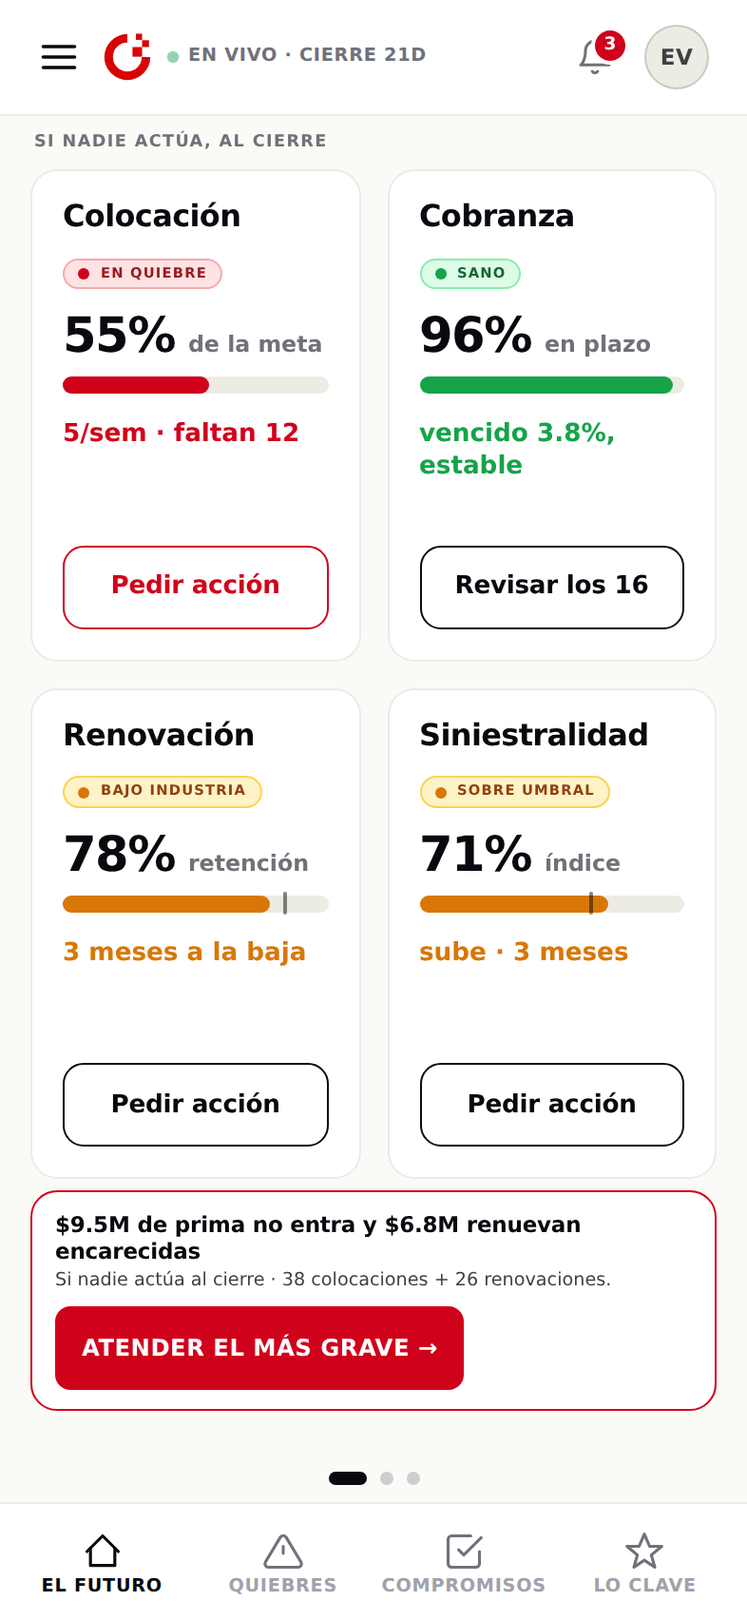
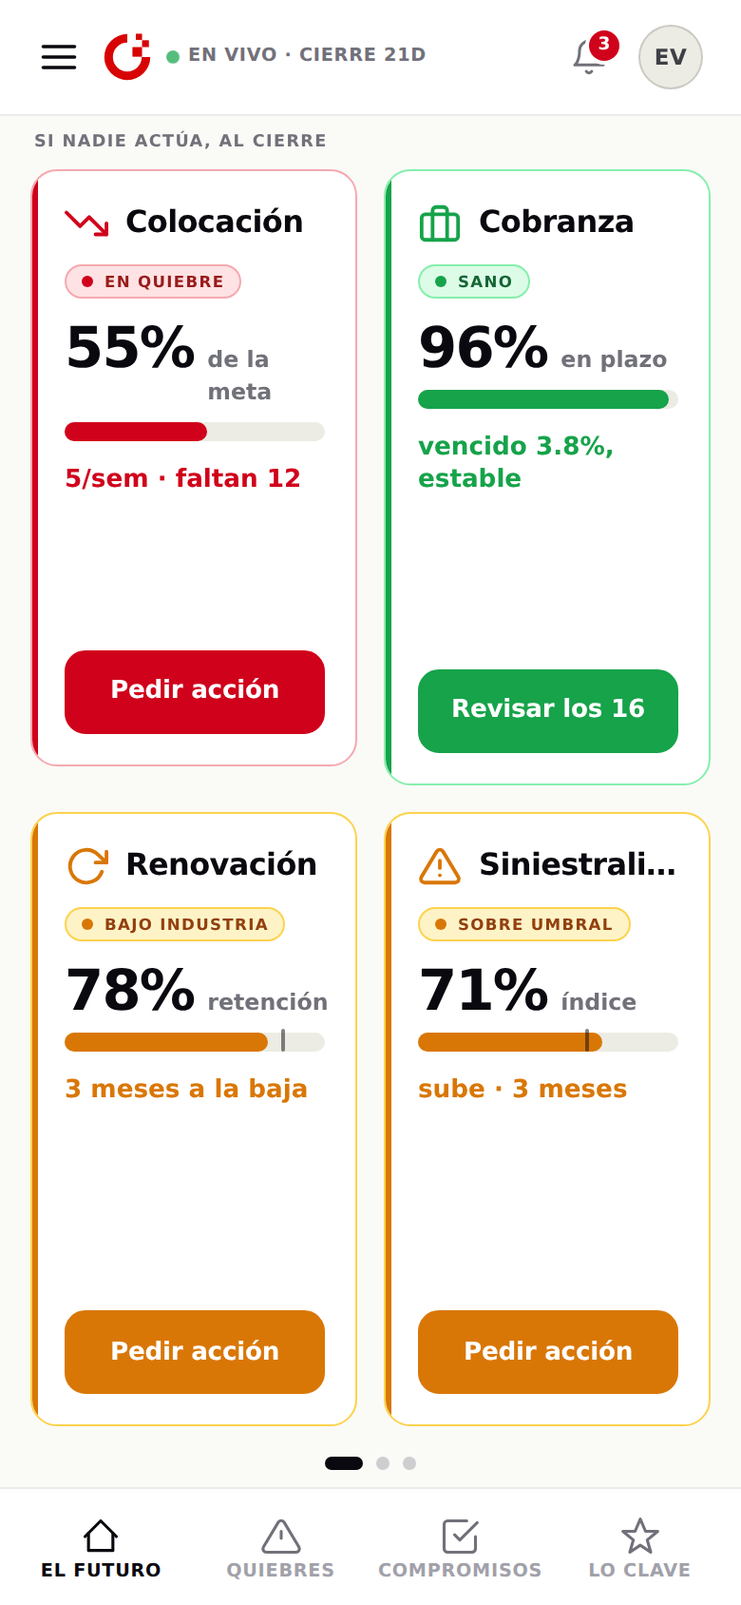
Desarrollo · Ontikos móvil: semáforo de cumplimiento en El Futuro + marca como inicio
El Futuro, página 1, recompuesto sobre «Mi Semana» recuperando su semáforo:

- Se retira la barra de decisión del pie: cada tile ya remata en su propio
  acto, era redundante y su alto obligaba a desplazar y rompía la grilla. Con
  ella fuera, la 2×2 llena el alto y la entrada CABE SIN SCROLL en toda la
  gama medida, incluido el peor caso (iPhone SE con barras · 375×553).
- Color = estado de cumplimiento, en tres canales (nunca sólo matiz): filo
  lateral de 3px, ícono del frente y botón RELLENO en el estado (rojo quiebre,
  ámbar advertencia, verde sano). Sigue casa.css .card.alert/.good/.warn.
- Ícono por frente (los del escritorio: tendencia, maletín, renovar, triángulo),
  coloreado por estado. El estado en palabra pasa a su propia línea (sin truncar).
- La marca de la cabecera es el botón de INICIO (toca → El Futuro) con el gesto
  del escritorio (anillo gira, módulos entran), re-disparado al reinsertar el
  símbolo; respeta prefers-reduced-motion.
- marco.html: §2 before/after del semáforo, §4 auditoría (cabe sin scroll en
  todos los equipos), §5 color y procedencia; imágenes regeneradas.

Verificado con Playwright (visualViewport real): scroll 0 px en 13 mini, 15/16,
16 Pro Max, Pixel 8, Pixel con barras, SE 667, SE 553 y Galaxy S8.

Claude-Session: https://claude.ai/code/session_01Tht9ke39SpUdAFHxMDBS3w

diff --git a/desarrollo/movil/marco.html b/desarrollo/movil/marco.html
@@ -91,7 +91,7 @@ footer p{font-size:.84rem;color:var(--ink3);max-width:74ch}
     <h1>El marco de aplicación</h1>
     <p class="lede">Paso 3, rehecho. Ya no son piezas sobre una página que se desplaza entera: es una app. El marco no se mueve, la entrada se pagina, y el contenido es el del escritorio, de la misma fuente.</p>
     <p>La cabecera y la barra inferior quedan fijas; sólo la superficie corre. El Futuro se recorre de lado, página completa, sin desplazamiento vertical. Las otras secciones son listas que corren dentro de su zona. Dos niveles de navegación: la hamburguesa para los módulos, la barra inferior para las superficies del CEO. La gramática §5·G no se tocó.</p>
-    <span class="verdict">✓ La auditoría de alturas pasa en el peor caso (iPhone SE · Safari con barras)</span>
+    <span class="verdict">✓ La entrada cabe SIN scroll en el peor caso (iPhone SE · Safari con barras · 375×553)</span>
   </div>
 
   <!-- §1 ARQUITECTURA -->
@@ -114,10 +114,10 @@ footer p{font-size:.84rem;color:var(--ink3);max-width:74ch}
           <div class="tags"><span class="tg casa">de la casa · CM, verbatim</span></div>
         </div></div>
         <div class="dec"><span class="b">3</span><div>
-          <h3>La cabecera fija y mínima</h3>
-          <p>Hamburguesa · <b>el ícono de Ontikos</b> (del kit, copiado no redibujado) · EN&nbsp;VIVO·CIERRE · campana · avatar. Respeta el área segura superior (isla / notch). Ya no es el wordmark.</p>
-          <div class="tags"><span class="tg casa">appbar de CM</span><span class="tg nueva">EN VIVO·CIERRE: pieza nueva</span></div>
-          <span class="cite">ícono: desarrollo/favicon.svg (Kit de Marca v1.1 §Símbolo)</span>
+          <h3>La cabecera fija y mínima · la marca es INICIO</h3>
+          <p>Hamburguesa · <b>el ícono de Ontikos como botón de inicio</b> (del kit, copiado no redibujado): toca → El Futuro, con el <b>gesto del escritorio</b> (el anillo gira una vuelta, los módulos entran escalonados) · EN&nbsp;VIVO·CIERRE · campana · avatar. Respeta el área segura superior (isla / notch). El gesto se re-dispara reinsertando el símbolo (línea de tiempo SMIL nueva), como el <code>key={gesto}</code> del escritorio; respeta <code>prefers-reduced-motion</code>.</p>
+          <div class="tags"><span class="tg casa">appbar de CM</span><span class="tg nueva">marca = inicio + gesto</span><span class="tg nueva">EN VIVO·CIERRE: pieza nueva</span></div>
+          <span class="cite">ícono + gesto: Marca.jsx (Kit de Marca v1.1 §Símbolo)</span>
         </div></div>
         <div class="dec"><span class="b">4</span><div>
           <h3>El marco no se desplaza</h3>
@@ -132,19 +132,21 @@ footer p{font-size:.84rem;color:var(--ink3);max-width:74ch}
   <!-- §2 ENTRADA PAGINADA -->
   <div class="sec">
     <div class="sec-n">§2</div>
-    <h2>La entrada se pagina · el tile, recompuesto</h2>
-    <p class="intro"><b>Antes:</b> el arco comprimido parecía un velocímetro de juguete, todo pesaba lo mismo (cifras a 900, filetes, cuatro cajas) y el acto se leía como enlace. <b>Después</b> (composición tomada de «Mi Semana» — EstructuraMovil, vendedor móvil — sin tomar su uso del color): <b>una sola idea por tile</b>, con aire y ritmo vertical constante. El arco sale del móvil: el avance va en una <b>barra delgada</b> en el color del estado, con <b>muesca de referencia</b> (industria 84%, umbral 65%); el arco completo se muestra en la hoja de detalle. La anatomía, igual en los cuatro: título (700) · estado · la cifra con su barra (única cifra a 900) · una línea de contexto · el acto como <b>botón real</b> (contorno rojo para el quiebre, tinta para los demás). Las dos celdas de métricas suben a la hoja. La separación la da el espacio, no las líneas.</p>
+    <h2>La entrada se pagina · el tile, recompuesto con semáforo</h2>
+    <p class="intro"><b>Composición de «Mi Semana»</b> (EstructuraMovil, vendedor móvil) <b>con su semáforo</b>: una idea por tile, aire y ritmo vertical constante, <b>y el color = estado de cumplimiento</b>, igual que el escritorio (<code>casa.css .card.alert/.good/.warn</code>). Cada tile lo lleva en tres canales a la vez —nunca sólo color—: el <b>filo lateral</b> de 3&nbsp;px, el <b>ícono</b> del frente (los mismos del escritorio: tendencia, maletín, renovar, triángulo) y el <b>botón relleno</b> en el estado (<b class="k-red">rojo</b> quiebre · ámbar advertencia · verde sano). La anatomía, igual en los cuatro: ícono + título (700) · estado en palabra (su propia línea, sin truncar) · la cifra con su barra y <b>muesca de referencia</b> (industria 84%, umbral 65%) · una línea de contexto · el acto como <b>botón real</b> ≥44&nbsp;px. El arco de escritorio no entra en el tile: vive en la hoja de detalle. <b>Se retiró la barra de decisión del pie:</b> cada tile ya remata en su propio acto, así que era redundante y su alto obligaba a desplazar y rompía la grilla; con ella fuera la 2×2 llena el alto y <b>cabe en el iPhone SE sin scroll</b>. La marca de la cabecera es ahora el <b>botón de inicio</b> (toca → El Futuro) con el <b>gesto del escritorio</b> (el anillo gira, los módulos entran).</p>
     <div class="pair" style="margin-bottom:8px">
-      <div class="unit"><div class="phone sm"><img src="img/mf-before.png" alt="Tile antes · arco y celdas"></div><div class="lbl">Antes · arco + celdas</div></div>
-      <div class="unit"><div class="phone sm"><img src="img/mf-f1.png" alt="Tile después · barra y una idea"></div><div class="lbl">Después · barra + una idea</div></div>
+      <div class="unit"><div class="phone sm"><img src="img/mf-before.png" alt="Tile antes · arco y celdas"></div><div class="lbl">Antes · arco (velocímetro)</div></div>
+      <div class="unit"><div class="phone sm"><img src="img/mf-f1.png" alt="Tile ahora · semáforo + ícono"></div><div class="lbl">Ahora · semáforo + ícono</div></div>
       <div class="unit"><div class="phone sm"><img src="img/mf-before-dk.png" alt="Antes oscuro"></div><div class="lbl">Antes · oscuro</div></div>
-      <div class="unit"><div class="phone sm"><img src="img/mf-f1-dk.png" alt="Después oscuro"></div><div class="lbl">Después · oscuro</div></div>
+      <div class="unit"><div class="phone sm"><img src="img/mf-f1-dk.png" alt="Ahora oscuro"></div><div class="lbl">Ahora · oscuro</div></div>
     </div>
     <div class="formlist">
       <span class="fm">composición <span class="src">Mi Semana · EstructuraMovil (vendedor móvil)</span></span>
+      <span class="fm">color = estado: filo + ícono + botón <span class="src">casa · .card.alert/.good/.warn</span></span>
+      <span class="fm">ícono por frente <span class="src">TableroCeo.jsx · ICON.coloc/cobr/reno/sini</span></span>
       <span class="fm">barra delgada + muesca <span class="src">casa · .vd-meta-bar</span></span>
       <span class="fm">el arco vive en la hoja <span class="src">§5·G: arco en escritorio, barra en móvil</span></span>
-      <span class="fm">la barra de decisión = 2.º nivel, <b class="k-red">rojo</b> (estado más grave)</span>
+      <span class="fm">marca = inicio, con gesto <span class="src">Marca.jsx · anillo + módulos</span></span>
       <span class="fm">paginador + puntos <span class="src">pieza nueva</span></span>
     </div>
     <div class="pair">
@@ -179,26 +181,26 @@ footer p{font-size:.84rem;color:var(--ink3);max-width:74ch}
   <div class="sec">
     <div class="sec-n">§4</div>
     <h2>La auditoría de alturas</h2>
-    <p class="intro">Medida con el viewport visible real (<code>visualViewport</code>), con la nueva anatomía airosa. Entrada = las dos filas de tiles + la barra de decisión; Quiebres = indicadores + filtros + primera fila completa. El margen es el aire que sobra al pie antes de la barra inferior.</p>
+    <p class="intro">Medida con el viewport visible real (<code>visualViewport</code>). Entrada = las dos filas de tiles (2×2) que <b>llenan</b> el alto, con los puntos del paginador y la barra inferior siempre visibles; Quiebres = indicadores + filtros + primera fila completa. Al retirar la barra de decisión, la grilla toma el alto que antes forzaba el scroll: <b>la entrada cabe sin desplazarse en toda la gama, incluido el peor caso</b> (SE con barras). «grilla→puntos» es el aire entre el fondo de la 2×2 y la banda de puntos.</p>
     <table class="audit">
       <thead><tr>
         <th>Dispositivo</th><th>Viewport</th><th>Área segura ↑/↓</th>
-        <th>El Futuro (entrada)</th><th>Quiebres · margen fila 1</th><th>Veredicto</th>
+        <th>El Futuro · scroll</th><th>grilla→puntos</th><th>Quiebres · margen fila 1</th><th>Veredicto</th>
       </tr></thead>
       <tbody>
-        <tr><td class="dev">iPhone 13 mini</td><td>375 × 812</td><td>44 / 34</td><td>margen +22 px</td><td>+294 px</td><td class="ok">Cabe con aire</td></tr>
-        <tr><td class="dev">iPhone 15 / 16</td><td>393 × 852</td><td>59 / 34</td><td>margen +22 px</td><td>+334 px</td><td class="ok">Cabe con aire</td></tr>
-        <tr><td class="dev">iPhone 16 Pro Max</td><td>440 × 956</td><td>62 / 34</td><td>margen +22 px</td><td>+459 px</td><td class="ok">Cabe con aire</td></tr>
-        <tr><td class="dev">Pixel 8 (Android)</td><td>412 × 915</td><td>24 / 24</td><td>margen +22 px</td><td>+397 px</td><td class="ok">Cabe con aire</td></tr>
-        <tr><td class="dev">Pixel · con barras*</td><td>412 × 780</td><td>— / —</td><td>margen +22 px</td><td>+262 px</td><td class="ok">Cabe con aire</td></tr>
-        <tr class="worst"><td class="dev">iPhone SE</td><td>375 × 667</td><td>20 / 0</td><td>se desplaza</td><td>+149 px</td><td class="tight">Entrada: ver nota</td></tr>
-        <tr class="worst"><td class="dev">iPhone SE · barras*</td><td>375 × 553</td><td>0 / 0</td><td>se desplaza</td><td>+35 px</td><td class="tight">Entrada: ver nota</td></tr>
-        <tr class="worst"><td class="dev">Galaxy S8 (Android)</td><td>360 × 740</td><td>24 / 24</td><td>se desplaza</td><td>+202 px</td><td class="tight">Entrada: ver nota</td></tr>
+        <tr><td class="dev">iPhone 13 mini</td><td>375 × 812</td><td>44 / 34</td><td class="ok">0 px</td><td>+6 px</td><td>+294 px</td><td class="ok">Cabe sin scroll</td></tr>
+        <tr><td class="dev">iPhone 15 / 16</td><td>393 × 852</td><td>59 / 34</td><td class="ok">0 px</td><td>+6 px</td><td>+334 px</td><td class="ok">Cabe sin scroll</td></tr>
+        <tr><td class="dev">iPhone 16 Pro Max</td><td>440 × 956</td><td>62 / 34</td><td class="ok">0 px</td><td>+6 px</td><td>+459 px</td><td class="ok">Cabe sin scroll</td></tr>
+        <tr><td class="dev">Pixel 8 (Android)</td><td>412 × 915</td><td>24 / 24</td><td class="ok">0 px</td><td>+6 px</td><td>+397 px</td><td class="ok">Cabe sin scroll</td></tr>
+        <tr><td class="dev">Pixel · con barras*</td><td>412 × 780</td><td>— / —</td><td class="ok">0 px</td><td>+6 px</td><td>+262 px</td><td class="ok">Cabe sin scroll</td></tr>
+        <tr><td class="dev">iPhone SE</td><td>375 × 667</td><td>20 / 0</td><td class="ok">0 px</td><td>+4 px</td><td>+149 px</td><td class="ok">Cabe sin scroll</td></tr>
+        <tr class="worst"><td class="dev">iPhone SE · barras*</td><td>375 × 553</td><td>0 / 0</td><td class="ok">0 px</td><td>+4 px</td><td>+35 px</td><td class="ok">Cabe sin scroll</td></tr>
+        <tr><td class="dev">Galaxy S8 (Android)</td><td>360 × 740</td><td>24 / 24</td><td class="ok">0 px</td><td>+4 px</td><td>+202 px</td><td class="ok">Cabe sin scroll</td></tr>
       </tbody>
     </table>
     <div class="note">
-      <p><b>El aire tiene un costo en los equipos cortos, y lo saco a la superficie antes de comprimir.</b> El tile airoso (una idea, botón de 44&nbsp;px) cabe con margen en todo viewport de ~760&nbsp;px o más —toda la gama moderna, incluido el Pixel del dueño, con +22&nbsp;px de aire al pie—. En los equipos cortos (iPhone SE 667 y con barras 553, Galaxy&nbsp;S8 740) la página 1 <b>no cabe sin sacrificar aire</b>. Como el aire es parte de la corrección, en esos equipos la entrada <b>se desplaza en vertical</b> (nada se recorta) en vez de comprimirse. <b>Pendiente de tu decisión:</b> ¿lo dejo así (scroll en equipos cortos, aire intacto) o hago una variante compacta para el SE?</p>
-      <p><b>Quiebres</b> sí cabe con margen en todos (el peor, SE con barras: +35&nbsp;px), porque la lista se desplaza dentro de su zona por diseño.</p>
+      <p><b>Resuelto sin comprimir el aire.</b> La barra de decisión del pie era la que no dejaba caber la entrada en los equipos cortos. Como cada tile ya remata en su propio acto, se retiró: la 2×2 ocupa el alto liberado y <b>la página 1 cabe sin scroll en todos los viewports medidos</b> —incluido el peor caso, iPhone SE con barras (375×553), con la banda de puntos y la barra inferior visibles—. En los equipos cortos el ritmo interno se afina (relleno, cifra, gap) sin bajar el acto de 44&nbsp;px ni truncar nada. No queda una decisión de scroll pendiente.</p>
+      <p><b>Quiebres</b> cabe con margen en todos (el peor, SE con barras: +35&nbsp;px), porque la lista se desplaza dentro de su zona por diseño.</p>
       <p><b>* El límite, declarado:</b> la emulación de WebKit headless no reproduce las barras dinámicas de Safari/Chrome; rinde a viewport completo. Las filas «con barras» se rindieron a una altura reducida (≈ el viewport con barras) como prueba. La confirmación final se hace en equipo real.</p>
     </div>
     <div class="pair" style="margin-top:20px">
@@ -213,13 +215,13 @@ footer p{font-size:.84rem;color:var(--ink3);max-width:74ch}
     <h2>Procedencia y reglas</h2>
     <p class="intro">Lo que existe, traído verbatim; lo nuevo, declarado.</p>
     <div class="formlist">
-      <span class="fm"><b>De la casa, verbatim:</b> el app-shell <code>.app/.sa/.appbar/.bnav</code>, la hoja <code>.ovl + .modal</code>, las formas <code>.kpi · .vd-cli · .chip · .memb-chip · .ord-filtro · .camp</code></span>
+      <span class="fm"><b>De la casa, verbatim:</b> el app-shell <code>.app/.sa/.appbar/.bnav</code>, la hoja <code>.ovl + .modal</code>, las formas <code>.kpi · .vd-cli · .chip · .memb-chip · .ord-filtro</code>; el semáforo del tile sigue <code>casa.css .card.alert/.good/.warn</code></span>
     </div>
     <div class="formlist">
-      <span class="fm"><b>Piezas nuevas (declaradas):</b> el panel de la hamburguesa, el paginador con puntos, EN VIVO·CIERRE (3 estados), el gauge móvil (heredado del escritorio)</span>
+      <span class="fm"><b>Piezas nuevas (declaradas):</b> el panel de la hamburguesa, el paginador con puntos, la marca como inicio con su gesto, EN VIVO·CIERRE (3 estados), el gauge móvil de la hoja (heredado del escritorio)</span>
     </div>
     <div class="note">
-      <p><b>Color = significado.</b> El dinero en tinta; el rojo sólo para el quiebre y la barra de decisión (estado más grave); el activo de la nav en tinta; en oscuro el rojo de texto usa su variante AA. El ícono de marca va en su rojo de kit verbatim (es marca, no texto).</p>
+      <p><b>Color = significado (semáforo de cumplimiento).</b> Cada tile revela su estado en tres canales a la vez —filo lateral, ícono y botón relleno—, no sólo en matiz: <b class="k-red">rojo</b> quiebre, ámbar advertencia, verde sano; el dinero y el activo de la nav en tinta; en oscuro el rojo de texto usa su variante AA. El ícono de marca va en su rojo de kit verbatim (es marca, no texto). Se retiró la barra de decisión del pie (redundante con el acto de cada tile, y rompía la grilla).</p>
       <p><b>El responsable.</b> En 375&nbsp;px no caben nombre + chip + plazo + acto + peso en la fila; el responsable lo lleva el avatar (iniciales) y la hoja de detalle muestra el nombre completo. Chip y plazo quedan siempre visibles.</p>
       <p><b>Carbon.</b> La grilla sigue siendo la de pantalla chica (4 columnas, relleno 16, breakpoint Small, verificada en el MCP). La hoja pegada al borde inferior sigue a Carbon · Modal · Mobile (verificada en el MCP) y además es la <code>.modal</code> de la casa.</p>
     </div>

diff --git a/desarrollo/movil/assets/movil.css b/desarrollo/movil/assets/movil.css
@@ -25,6 +25,13 @@
 .ont-ico svg{width:100%;height:100%;display:block}
 /* el ícono es la marca: va en su rojo #D80404 verbatim, igual que la casa deja
    su wordmark en rojo también en oscuro. No se recolorea (no es texto). */
+/* la marca es el botón de INICIO (como el escritorio): toca → El Futuro, y
+   re-dispara el gesto. Reset de botón + área táctil ≥44px, con el símbolo dentro. */
+.ont-home{width:26px;height:26px;flex:none;border:none;background:none;padding:0;cursor:pointer;display:flex;align-items:center;justify-content:center;position:relative;-webkit-tap-highlight-color:transparent}
+.ont-home .ont-sym{width:26px;height:26px;display:block}
+.ont-home::after{content:"";position:absolute;top:50%;left:50%;transform:translate(-50%,-50%);width:var(--tap,44px);height:var(--tap,44px)}
+.ont-home:active{transform:scale(.92)}
+.ont-home:focus-visible{outline:2px solid var(--ink);outline-offset:4px;border-radius:6px}
 .appbar .clock{font-size:.6rem}
 .clock.porcerrar{color:var(--amber)}
 .clock.porcerrar .cdot{background:var(--amber);animation:none}
@@ -95,23 +102,39 @@
 .gz-pace{font-size:.66rem;font-weight:800;margin-top:3px;line-height:1.2}
 .gz-pace.r{color:var(--red-tx,var(--red))} .gz-pace.a{color:var(--amber)} .gz-pace.g{color:var(--green)} .gz-pace.n{color:var(--ink2)}
 
-/* ── El tile de línea estratégica · UNA SOLA IDEA (recomposición) ───────────
+/* ── El tile de línea estratégica · COMPOSICIÓN de «Mi Semana» + SEMÁFORO ────
    Composición tomada de «Mi Semana» (EstructuraMovil · Ontikos vendedor móvil):
-   una idea por tarjeta, aire, ritmo vertical constante, peso contenido, acto
-   como botón. De ahí el relleno 16 y la barra delgada redondeada. NO se toma su
-   uso del color. La separación la da el ESPACIO, no líneas internas.
-   El arco de escritorio no entra: el avance va en BARRA con muesca de
+   una idea por tarjeta, aire, ritmo vertical constante, peso contenido, ÍCONO,
+   acto como botón. Y el COLOR = ESTADO de cumplimiento, como «Mi Semana» y como
+   el escritorio (casa.css .card.alert/.good/.warn): el filo lateral, el ícono y
+   el botón van EN el estado (rojo quiebre · ámbar advertencia · verde sano).
+   El arco de escritorio no entra en el tile: el avance va en BARRA con muesca de
    referencia; el arco se muestra en la hoja (instrumento a escala de escritorio).
-   Procedencia: ERP-CRM/producto/app/src/vistas/movil/estructura-movil.css */
+   Procedencia: estructura-movil.css + marco/casa.css (.card.alert/.good/.warn). */
 .lgrid{display:grid;grid-template-columns:1fr 1fr;grid-template-rows:1fr 1fr;gap:12px;flex:1 1 auto;min-height:0}
-.ltile{background:var(--surf);border:1px solid var(--brd);border-radius:14px;padding:14px;display:flex;flex-direction:column;gap:10px;min-width:0;min-height:0;overflow:hidden;cursor:pointer;text-align:left}
-/* 1 · título (peso 700) · 2 · estado (chip con punto) */
-.lt-t{font-size:.92rem;font-weight:700;letter-spacing:-.02em;line-height:1.05;color:var(--ink)}
-.ltile .memb-chip{font-size:.46rem;padding:2px 7px;white-space:nowrap;align-self:flex-start}
+.ltile{position:relative;background:var(--surf);border:1px solid var(--brd);border-radius:14px;padding:14px 14px 14px 15px;display:flex;flex-direction:column;gap:9px;min-width:0;min-height:0;overflow:hidden;cursor:pointer;text-align:left}
+/* semáforo de cumplimiento (como el escritorio): borde en el estado + filo
+   lateral de 3px. color=significado, y nunca sólo color: lo acompaña el ícono. */
+.ltile.alert{border-color:var(--red-brd,var(--red))}
+.ltile.good{border-color:var(--green-brd,var(--green))}
+.ltile.warn{border-color:var(--amber-brd,var(--amber))}
+.ltile::before{content:"";position:absolute;left:0;top:0;bottom:0;width:3px;border-radius:14px 0 0 14px}
+.ltile.alert::before{background:var(--red)}
+.ltile.good::before{background:var(--green)}
+.ltile.warn::before{background:var(--amber-fill,var(--amber))}
+/* 1 · cabecera: ÍCONO (en el estado) + título (700) + estado (chip) */
+.lt-head{display:flex;align-items:center;gap:8px;min-width:0}
+.lt-ico{width:20px;height:20px;flex:none;display:flex;align-items:center;justify-content:center}
+.lt-ico svg{width:100%;height:100%;fill:none;stroke-width:2;stroke-linecap:round;stroke-linejoin:round;stroke:var(--ink3)}
+.lt-ico.r svg{stroke:var(--red)} .lt-ico.a svg{stroke:var(--amber)} .lt-ico.g svg{stroke:var(--green)}
+.lt-t{font-size:.92rem;font-weight:700;letter-spacing:-.02em;line-height:1.05;color:var(--ink);min-width:0;overflow:hidden;text-overflow:ellipsis;white-space:nowrap}
+/* el estado en PALABRA, en su propia línea (no se trunca ni empuja el título);
+   el color ya lo cargan el filo, el ícono y el botón. */
+.ltile .memb-chip{font-size:.52rem;padding:2px 8px;white-space:nowrap;align-self:flex-start;margin:-2px 0 0}
 /* 3 · la cifra con su barra (única cifra a 900 del tile, moderada) */
 .lt-metric{display:flex;flex-direction:column;gap:7px}
 .lt-figrow{display:flex;align-items:baseline;gap:7px}
-.lt-pct{font-size:1.35rem;font-weight:900;letter-spacing:-.03em;line-height:1;font-variant-numeric:tabular-nums;color:var(--ink)}
+.lt-pct{font-size:1.5rem;font-weight:900;letter-spacing:-.03em;line-height:1;font-variant-numeric:tabular-nums;color:var(--ink)}
 .lt-pct-cap{font-size:.66rem;font-weight:600;color:var(--ink3)}
 .lt-bar{position:relative;height:8px;background:var(--surf3);border-radius:99px}
 .lt-bar-fill{position:absolute;left:0;top:0;height:100%;border-radius:99px}
@@ -120,38 +143,47 @@
 /* 4 · una sola línea de contexto (regular; color del estado sólo si lo carga) */
 .lt-ctx{font-size:.76rem;font-weight:500;color:var(--ink2);line-height:1.3}
 .lt-ctx.r{color:var(--red-tx,var(--red));font-weight:600} .lt-ctx.a{color:var(--amber);font-weight:600} .lt-ctx.g{color:var(--green);font-weight:600}
-/* 5 · el acto como BOTÓN real: ancho completo, contorno, ≥44px, SIN relleno */
-.ltile-act{margin-top:auto;display:block;width:100%;border:1.5px solid var(--ink);background:none;border-radius:11px;padding:11px 10px;min-height:44px;font-size:.78rem;font-weight:700;color:var(--ink);cursor:pointer;text-align:center;font-family:inherit;letter-spacing:-.01em}
-.ltile-act.q{border-color:var(--red);color:var(--red-tx,var(--red))}
-/* en pantallas altas: más aire y cifra un poco mayor */
+/* 5 · el acto como BOTÓN real: ancho completo, ≥44px, RELLENO en el semáforo
+   (como «Mi Semana»: el botón refleja el estado de cumplimiento) */
+.ltile-act{margin-top:auto;display:block;width:100%;border:1.5px solid var(--ink);background:none;border-radius:11px;padding:11px 10px;min-height:44px;font-size:.78rem;font-weight:800;color:var(--ink);cursor:pointer;text-align:center;font-family:inherit;letter-spacing:-.01em}
+.ltile-act.r{background:var(--red);border-color:var(--red);color:#fff}
+.ltile-act.a{background:var(--amber-fill,var(--amber));border-color:var(--amber-fill,var(--amber));color:#fff}
+.ltile-act.g{background:var(--green);border-color:var(--green);color:#fff}
+.ltile-act:active{transform:translateY(1px)}
+/* en pantallas altas: más aire, ícono y cifra mayores (uso del espacio liberado
+   al quitar la barra de decisión; lo gráfico crece sin romper la grilla) */
 @media (min-height:760px){
   .lgrid{gap:14px}
-  .ltile{padding:16px;gap:13px}
+  .ltile{padding:16px 16px 16px 17px;gap:12px}
+  .lt-head{gap:9px}
+  .lt-ico{width:23px;height:23px}
   .lt-t{font-size:1rem}
-  .lt-pct{font-size:1.6rem}
+  .lt-pct{font-size:1.85rem}
   .lt-pct-cap{font-size:.74rem}
-  .lt-bar{height:9px}
+  .lt-bar{height:10px}
   .lt-ctx{font-size:.82rem}
   .ltile-act{font-size:.82rem;padding:12px}
 }
-/* En viewports muy cortos (iPhone SE con barras de Safari) el tile airoso no
-   cabe sin sacrificar aire. Antes que comprimir —el aire es parte de la
-   corrección— la entrada se desplaza en vertical y la grilla toma su alto
-   natural, para que nada se recorte. (Pendiente de decisión del dueño.) */
+/* En viewports cortos (iPhone SE con las barras de Safari) la grilla 2×2 LLENA
+   el alto disponible sin desplazarse: al retirar la barra de decisión sobra el
+   alto que antes obligaba a comprimir o a hacer scroll. Se afina sólo el ritmo
+   (relleno, cifra, gap) para que el tile airoso quepa sin recortar nada. */
 @media (max-height:759px){
-  .pager-host .sc.on .page{overflow-y:auto;overflow-x:hidden}
-  .pager-host .lgrid{flex:0 0 auto;grid-template-rows:none;grid-auto-rows:auto}
+  .page{padding-top:6px;padding-bottom:4px;gap:5px}
+  .lgrid{gap:10px}
+  .ltile{padding:12px 12px 12px 13px;gap:7px}
+  .lt-ico{width:18px;height:18px}
+  .lt-t{font-size:.86rem}
+  .lt-pct{font-size:1.35rem}
+  .lt-pct-cap{font-size:.62rem}
+  .lt-ctx{font-size:.72rem}
+  .ltile-act{padding:10px 8px;font-size:.74rem}
 }
 
 /* ══ 5 · color = significado y ajustes sobre las formas heredadas ════════════ */
-/* la barra de decisión usa .camp; hereda el estado más grave (hoy rojo).
-   Compacta dentro de la página para que todo quepa en el peor caso (SE con barras). */
-.camp.grave{border-color:var(--red)}
-.camp.grave .camp-act,.camp.grave .btn.primary{background:var(--red);border-color:var(--red);color:#fff}
-.page .camp{padding:10px 12px}
-.page .camp-t{font-size:.72rem;line-height:1.22}
-.page .camp-s{font-size:.6rem;margin-top:2px;line-height:1.25}
-.page .camp-act{margin-top:7px;padding:10px 13px;font-size:.76rem;min-height:44px}
+/* (La barra de decisión de la página 1 se retiró: cada tile ya remata en su
+   propio acto, y su redundancia obligaba a desplazar y rompía la grilla. El
+   peso de la decisión lo cargan el semáforo de los cuatro tiles y la página 2.) */
 
 /* Quiebres · la fila .vd-cli con su acto visible; chip en la línea de responsable.
    Se ajusta el relleno y los gaps de la fila para dar ancho al cuerpo en móvil

diff --git a/desarrollo/movil/index.html b/desarrollo/movil/index.html
@@ -61,7 +61,7 @@
   <!-- ══ CABECERA fija · hamburguesa · ÍCONO Ontikos · EN VIVO·CIERRE · campana · avatar ══ -->
   <header class="appbar">
     <button class="hamb" aria-label="Abrir módulos" onclick="openDrawer()"><svg viewBox="0 0 24 24"><line x1="3" y1="6" x2="21" y2="6"/><line x1="3" y1="12" x2="21" y2="12"/><line x1="3" y1="18" x2="21" y2="18"/></svg></button>
-    <span class="ont-ico" aria-label="Ontikos"><svg viewBox="27 29 144 144"><g fill="#D80404"><path d="M166 101A67 67 0 1 1 99 34L99 59A42 42 0 1 0 141 101Z"/><rect x="114" y="72" width="28" height="28"/><rect x="142" y="52" width="20" height="20"/><rect x="124" y="33" width="18" height="18"/></g></svg></span>
+    <button class="ont-home" id="ont-home" aria-label="Ir al inicio · El Futuro" title="Ontikos · inicio" onclick="goHome()"></button>
     <span class="clock"><span class="cdot"></span>EN VIVO · CIERRE 21D</span>
     <span class="sp"></span>
     <button class="rc-bell" aria-label="Alertas"><svg viewBox="0 0 24 24"><path d="M18 8A6 6 0 0 0 6 8c0 7-3 9-3 9h18s-3-2-3-9"/><path d="M13.73 21a2 2 0 0 1-3.46 0"/></svg><span class="rc-bell-badge">3</span></button>
@@ -75,62 +75,66 @@
     <section class="sc on" id="futuro">
       <div class="pager" id="pager">
 
-        <!-- Página 1 · las cuatro líneas 2×2 + la barra de decisión -->
+        <!-- Página 1 · las cuatro líneas 2×2 · color = estado de cumplimiento
+             (semáforo como «Mi Semana»: filo + ícono + botón en el estado) -->
         <div class="page">
           <div class="page-ey">Si nadie actúa, al cierre</div>
           <div class="lgrid">
-            <!-- Colocación · una idea: 55% de la meta -->
-            <div class="ltile" onclick="openLine('colocacion')">
-              <div class="lt-t">Colocación</div>
+            <!-- Colocación · en quiebre (rojo) -->
+            <div class="ltile alert" onclick="openLine('colocacion')">
+              <div class="lt-head">
+                <span class="lt-ico r"><svg viewBox="0 0 24 24"><path d="M23 18l-9.5-9.5-5 5L1 6"/><polyline points="17 18 23 18 23 12"/></svg></span>
+                <span class="lt-t">Colocación</span>
+              </div>
               <span class="memb-chip expired">en quiebre</span>
               <div class="lt-metric">
                 <div class="lt-figrow"><span class="lt-pct">55%</span><span class="lt-pct-cap">de la meta</span></div>
                 <div class="lt-bar"><div class="lt-bar-fill r" style="width:55%"></div></div>
               </div>
               <div class="lt-ctx r">5/sem · faltan 12</div>
-              <button class="ltile-act q">Pedir acción</button>
+              <button class="ltile-act r">Pedir acción</button>
             </div>
-            <!-- Cobranza · 96% en plazo -->
-            <div class="ltile" onclick="openLine('cobranza')">
-              <div class="lt-t">Cobranza</div>
+            <!-- Cobranza · sano (verde) -->
+            <div class="ltile good" onclick="openLine('cobranza')">
+              <div class="lt-head">
+                <span class="lt-ico g"><svg viewBox="0 0 24 24"><rect x="2" y="7" width="20" height="14" rx="2"/><path d="M16 21V5a2 2 0 0 0-2-2h-4a2 2 0 0 0-2 2v16"/></svg></span>
+                <span class="lt-t">Cobranza</span>
+              </div>
               <span class="memb-chip">sano</span>
               <div class="lt-metric">
                 <div class="lt-figrow"><span class="lt-pct">96%</span><span class="lt-pct-cap">en plazo</span></div>
                 <div class="lt-bar"><div class="lt-bar-fill g" style="width:96%"></div></div>
               </div>
               <div class="lt-ctx g">vencido 3.8%, estable</div>
-              <button class="ltile-act">Revisar los 16</button>
+              <button class="ltile-act g">Revisar los 16</button>
             </div>
-            <!-- Renovación · 78% retención (muesca ind. 84%) -->
-            <div class="ltile" onclick="openLine('renovacion')">
-              <div class="lt-t">Renovación</div>
+            <!-- Renovación · bajo industria (ámbar · muesca ind. 84%) -->
+            <div class="ltile warn" onclick="openLine('renovacion')">
+              <div class="lt-head">
+                <span class="lt-ico a"><svg viewBox="0 0 24 24"><polyline points="23 4 23 10 17 10"/><path d="M20.49 15a9 9 0 1 1-2.12-9.36L23 10"/></svg></span>
+                <span class="lt-t">Renovación</span>
+              </div>
               <span class="memb-chip grace">bajo industria</span>
               <div class="lt-metric">
                 <div class="lt-figrow"><span class="lt-pct">78%</span><span class="lt-pct-cap">retención</span></div>
                 <div class="lt-bar"><div class="lt-bar-fill a" style="width:78%"></div><span class="lt-bar-notch" style="left:84%" title="industria 84%"></span></div>
               </div>
               <div class="lt-ctx a">3 meses a la baja</div>
-              <button class="ltile-act">Pedir acción</button>
+              <button class="ltile-act a">Pedir acción</button>
             </div>
-            <!-- Siniestralidad · 71% (muesca umbral 65%) -->
-            <div class="ltile" onclick="openLine('siniestralidad')">
-              <div class="lt-t">Siniestralidad</div>
+            <!-- Siniestralidad · sobre umbral (ámbar · muesca umbral 65%) -->
+            <div class="ltile warn" onclick="openLine('siniestralidad')">
+              <div class="lt-head">
+                <span class="lt-ico a"><svg viewBox="0 0 24 24"><path d="M10.29 3.86L1.82 18a2 2 0 0 0 1.71 3h16.94a2 2 0 0 0 1.71-3L13.71 3.86a2 2 0 0 0-3.42 0z"/><line x1="12" y1="9" x2="12" y2="13"/><line x1="12" y1="17" x2="12.01" y2="17"/></svg></span>
+                <span class="lt-t">Siniestralidad</span>
+              </div>
               <span class="memb-chip grace">sobre umbral</span>
               <div class="lt-metric">
                 <div class="lt-figrow"><span class="lt-pct">71%</span><span class="lt-pct-cap">índice</span></div>
                 <div class="lt-bar"><div class="lt-bar-fill a" style="width:71%"></div><span class="lt-bar-notch" style="left:65%" title="umbral 65%"></span></div>
               </div>
               <div class="lt-ctx a">sube · 3 meses</div>
-              <button class="ltile-act">Pedir acción</button>
-            </div>
-          </div>
-
-          <!-- barra de decisión · hereda el estado más grave (Colocación en quiebre → rojo) -->
-          <div class="camp grave">
-            <div class="camp-body">
-              <div class="camp-t"><b>$9.5M</b> de prima no entra y <b>$6.8M</b> renuevan encarecidas</div>
-              <div class="camp-s">Si nadie actúa al cierre · 38 colocaciones + 26 renovaciones.</div>
-              <button class="btn primary camp-act" onclick="openLine('atender')">Atender el más grave →</button>
+              <button class="ltile-act a">Pedir acción</button>
             </div>
           </div>
         </div>
@@ -351,6 +355,27 @@ function toggleTema(){
 
 var sa=document.getElementById('sa'), pager=document.getElementById('pager');
 
+// ── la marca como INICIO, con el gesto del escritorio (VERBATIM de Marca.jsx) ──
+// el anillo abierto gira 360° una vez; los 3 módulos entran escalonados (fade +
+// sube 11u). Reinsertar el <svg> le da una línea de tiempo SMIL nueva, que es
+// como el escritorio lo re-dispara (key={gesto}): sin @keyframes propios.
+var RM = window.matchMedia && matchMedia('(prefers-reduced-motion: reduce)').matches;
+function brandSVG(play){
+  var ring = '<path d="M166 101A67 67 0 1 1 99 34L99 59A42 42 0 1 0 141 101Z">'
+    + (play && !RM ? '<animateTransform attributeName="transform" type="rotate" from="0 99 101" to="360 99 101" dur="0.9s" begin="0s" repeatCount="1" fill="freeze"/>' : '') + '</path>';
+  var mods = [[114,72,28,0.70],[142,52,20,0.92],[124,33,18,1.14]].map(function(m){
+    var inner = '';
+    if(play){ inner += '<animate attributeName="opacity" from="0" to="1" begin="'+m[3]+'s" dur="0.5s" fill="freeze"/>';
+      if(!RM) inner += '<animateTransform attributeName="transform" type="translate" from="0 11" to="0 0" begin="'+m[3]+'s" dur="0.5s" calcMode="spline" keyTimes="0;1" keySplines="0.2 0.7 0.2 1" fill="freeze"/>'; }
+    return '<rect x="'+m[0]+'" y="'+m[1]+'" width="'+m[2]+'" height="'+m[2]+'"'+(play?' opacity="0"':'')+'>'+inner+'</rect>';
+  }).join('');
+  return '<svg class="ont-sym" viewBox="27 29 144 144" aria-hidden="true"><g fill="#D80404">'+ring+mods+'</g></svg>';
+}
+function playBrand(){ var h=document.getElementById('ont-home'); if(h) h.innerHTML = brandSVG(true); }
+
+// ── inicio: va a El Futuro (página 1) y re-dispara el gesto de marca ──
+function goHome(){ go('futuro'); goPage(0); playBrand(); }
+
 // ── navegación de secciones (bnav) ──
 function go(id){
   document.querySelectorAll('.sc').forEach(function(s){s.classList.toggle('on',s.id===id)});
@@ -445,6 +470,7 @@ function openQ(row){
 }
 
 syncTemaLbl();
+playBrand(); // el gesto de marca corre una vez al cargar (como el escritorio)
 document.addEventListener('keydown',function(e){ if(e.key==='Escape'){closeDrawer();closeSheet();} });
 </script>
 </body>
